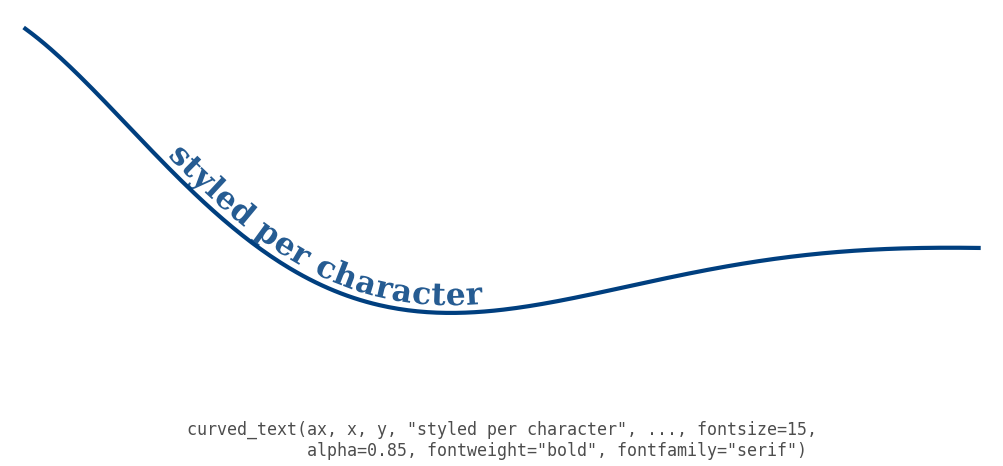
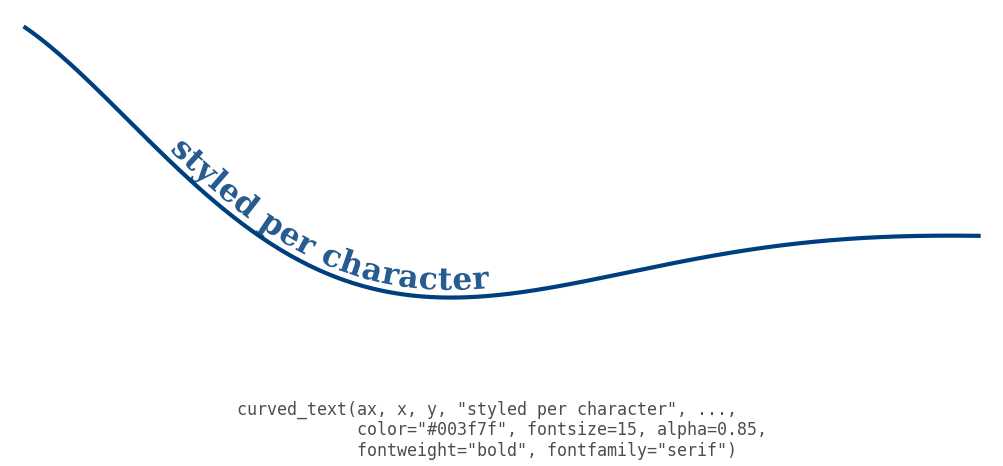
Show color in the 08 caption, shorten 16, and record the caption convention

Changed region(s): [[0.0618, 0.1202, 0.989, 0.691], [0.1854, 0.8712, 0.8036, 0.9914], [0.0309, 0.0601, 0.0618, 0.1202]]

diff --git a/examples/example_08_styling_passthrough.py b/examples/example_08_styling_passthrough.py
@@ -33,10 +33,9 @@ def make(images_dir):
                 color=TEXT["blue"], fontsize=15, alpha=0.85,
                 fontweight="bold", fontfamily="serif")
 
-    caption(ax, 'curved_text(ax, x, y, "styled per character", ..., '
-                'fontsize=15,\n'
-                '            alpha=0.85, fontweight="bold", '
-                'fontfamily="serif")')
+    caption(ax, 'curved_text(ax, x, y, "styled per character", ...,\n'
+                '            color="#003f7f", fontsize=15, alpha=0.85,\n'
+                '            fontweight="bold", fontfamily="serif")')
 
     path = os.path.join(images_dir, "08_styling_passthrough.png")
     return save(fig, path)

diff --git a/examples/_style.py b/examples/_style.py
@@ -64,6 +64,10 @@ def bare(ax):
 def caption(ax, text, font_size=8):
     """A monospace caption under a panel, usually the call that drew it.
 
+    When every panel of a figure makes the same call, each caption shows only
+    what differs between them, and the figure's README paragraph gives the
+    shared call.
+
     Dollar signs are escaped, so the caption shows the call as written, not a
     mathtext rendering of it, and the lines of a long call keep their
     indentation, aligned left within the centred block.

diff --git a/examples/example_16_usetex.py b/examples/example_16_usetex.py
@@ -35,7 +35,7 @@ def make(images_dir):
         return None
 
     with mpl.rc_context({"text.usetex": True, "font.family": "serif"}):
-        fig = figure(17, 11.3, font_size=10)
+        fig = figure(17, 8.5, font_size=10)
         ax = data_axes(fig.subplots(), font_size=10)
         t = np.linspace(0, 10, 200)
         for tau, hue, pos in SERIES:
